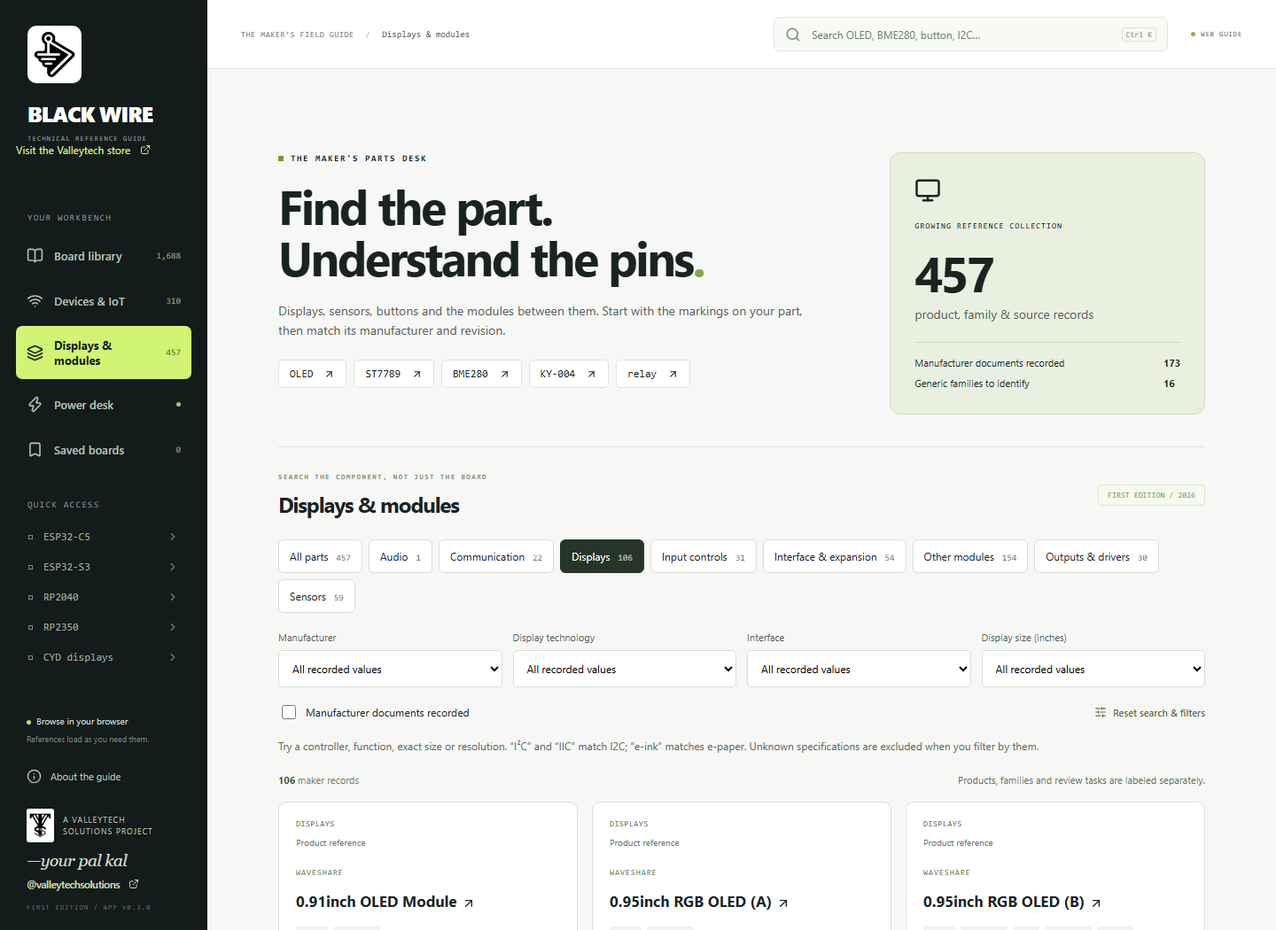
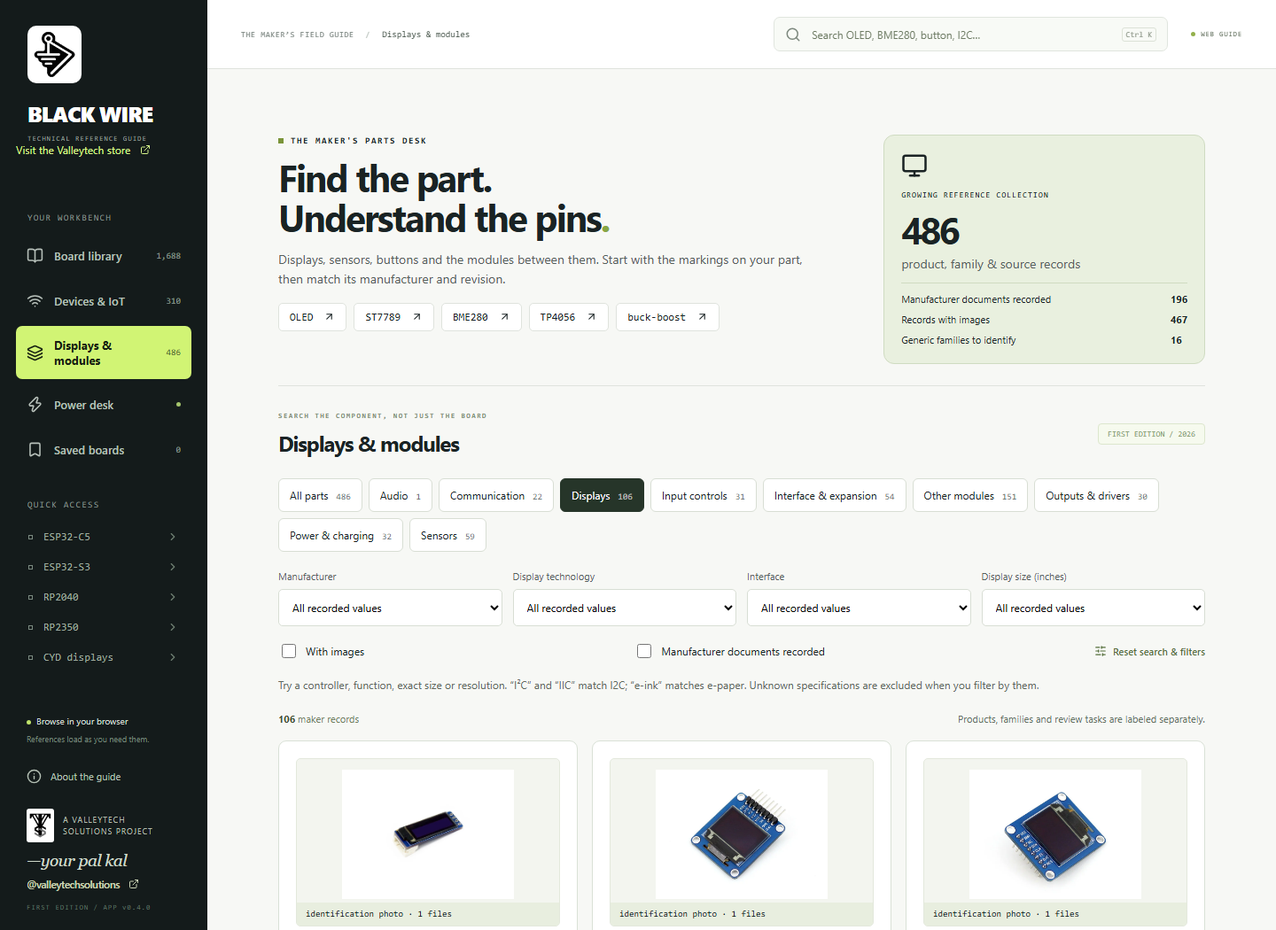
Show maker image galleries and add power module discovery

diff --git a/src/MakersView.jsx b/src/MakersView.jsx
@@ -1,7 +1,9 @@
 import React,{useEffect,useMemo,useRef,useState} from 'react';
 import {Monitor,Search,ArrowUpRight,X,SlidersHorizontal,ExternalLink,BookOpen,Layers} from 'lucide-react';
 import {searchMakerParts,makerSuggestions} from './maker-search.mjs';
-import {webEdition} from './runtime.mjs';
+import {webEdition,libraryURL} from './runtime.mjs';
+import {makerAssets,hasVisual} from './maker-assets.mjs';
+import MakerGallery from './MakerGallery.jsx';
 
 const kinds={'product-reference':'Product reference','manufacturer-family':'Manufacturer guide / family','collection-reference':'Existing collection reference','generic-family':'Generic family / identify first'};
 const unique=(parts,key)=>[...new Set(parts.flatMap(p=>Array.isArray(p[key])?p[key]:[p[key]]).filter(v=>v!==undefined&&v!==null&&v!==''))].sort((a,b)=>typeof a==='number'?a-b:String(a).localeCompare(String(b)));
@@ -9,6 +11,7 @@ function facts(p){return [p.technology,...p.controllers,...p.interfaces,p.diagon
 
 export default function MakersView({catalog,query,setQuery,openBoard,SourceLink}){
  const parts=catalog.makerParts||[];
+ const visuals=useMemo(()=>new Map(parts.map(p=>[p.id,makerAssets(p,catalog)])),[parts,catalog]);
  const [filters,setFilters]=useState({}),[limit,setLimit]=useState(30);
  const [selected,setSelected]=useState(()=>parts.find(p=>p.id===new URLSearchParams(location.search).get('part'))||null);
  const matches=useMemo(()=>searchMakerParts(parts,{...filters,query}),[parts,filters,query]);
@@ -18,14 +21,14 @@ export default function MakersView({catalog,query,setQuery,openBoard,SourceLink}
  const set=(key,value)=>setFilters(s=>({...s,[key]:value}));
  const controls=[['Manufacturer','brand',unique(parts,'brand')],['Display technology','technology',unique(parts,'technology')],['Interface','interface',unique(parts,'interfaces')],['Display size (inches)','size',unique(parts,'diagonalInches')]];
  return <div className="makers-page">
-  <section className="makers-hero"><div><div className="eyebrow"><span className="status-square"/>THE MAKER'S PARTS DESK</div><h1>Find the part.<br/>Understand the pins<span className="lime-period">.</span></h1><p>Displays, sensors, buttons and the modules between them. Start with the markings on your part, then match its manufacturer and revision.</p><div className="maker-examples">{['OLED','ST7789','BME280','KY-004','relay'].map(q=><button key={q} onClick={()=>{setFilters({});setQuery(q);}}>{q}<ArrowUpRight size={13}/></button>)}</div></div><div className="maker-coverage"><Monitor size={30}/><span>GROWING REFERENCE COLLECTION</span><strong>{parts.length.toLocaleString()}</strong><p>product, family & source records</p><dl><dt>Manufacturer documents recorded</dt><dd>{catalog.stats.makerDocumented}</dd><dt>Generic families to identify</dt><dd>{catalog.stats.makerGenericFamilies}</dd></dl></div></section>
+  <section className="makers-hero"><div><div className="eyebrow"><span className="status-square"/>THE MAKER'S PARTS DESK</div><h1>Find the part.<br/>Understand the pins<span className="lime-period">.</span></h1><p>Displays, sensors, buttons and the modules between them. Start with the markings on your part, then match its manufacturer and revision.</p><div className="maker-examples">{['OLED','ST7789','BME280','TP4056','buck-boost'].map(q=><button key={q} onClick={()=>{setFilters({});setQuery(q);}}>{q}<ArrowUpRight size={13}/></button>)}</div></div><div className="maker-coverage"><Monitor size={30}/><span>GROWING REFERENCE COLLECTION</span><strong>{parts.length.toLocaleString()}</strong><p>product, family & source records</p><dl><dt>Manufacturer documents recorded</dt><dd>{catalog.stats.makerDocumented}</dd><dt>Records with images</dt><dd>{catalog.stats.makerWithImages}</dd><dt>Generic families to identify</dt><dd>{catalog.stats.makerGenericFamilies}</dd></dl></div></section>
   <section className="maker-library"><div className="section-heading"><div><div className="eyebrow">SEARCH THE COMPONENT, NOT JUST THE BOARD</div><h2>Displays & modules</h2></div><span className="tag-outline">FIRST EDITION / 2026</span></div>
    <div className="maker-categories" aria-label="Maker categories">{['',...unique(parts,'category')].map(cat=><button key={cat} aria-pressed={(filters.category||'')===cat} onClick={()=>set('category',cat)}>{cat||'All parts'}<span>{parts.filter(p=>!cat||p.category===cat).length}</span></button>)}</div>
    <div className="maker-filter-grid">{controls.map(([label,key,options])=><label key={key}><span>{label}</span><select aria-label={'Maker '+label.toLowerCase()} value={filters[key]||''} onChange={e=>set(key,e.target.value)}><option value="">All recorded values</option>{options.map(o=><option key={o} value={o}>{o}</option>)}</select></label>)}</div>
-   <div className="maker-options"><label><input type="checkbox" checked={!!filters.documentedOnly} onChange={e=>set('documentedOnly',e.target.checked)}/>Manufacturer documents recorded</label><button className="text-link" onClick={()=>{setFilters({});setQuery('');}}><SlidersHorizontal size={14}/>Reset search & filters</button></div>
+   <div className="maker-options"><label><input type="checkbox" checked={!!filters.imagesOnly} onChange={e=>set('imagesOnly',e.target.checked)}/>With images</label><label><input type="checkbox" checked={!!filters.documentedOnly} onChange={e=>set('documentedOnly',e.target.checked)}/>Manufacturer documents recorded</label><button className="text-link" onClick={()=>{setFilters({});setQuery('');}}><SlidersHorizontal size={14}/>Reset search & filters</button></div>
    <p className="search-hint">Try a controller, function, exact size or resolution. “I²C” and “IIC” match I2C; “e-ink” matches e-paper. Unknown specifications are excluded when you filter by them.</p>
    <div className="result-toolbar"><span role="status"><b>{matches.length.toLocaleString()}</b> maker records{query&&<> matching <strong>“{query}”</strong></>}</span><span>Products, families and review tasks are labeled separately.</span></div>
-   {matches.length?<div className="maker-grid">{matches.slice(0,limit).map(p=><article key={p.id} className="maker-card"><div className="maker-card-top"><span>{p.category}</span><span className={'maker-record-kind '+(p.identityKind==='generic-family'?'needs-id':'')}>{kinds[p.identityKind]}</span></div><div className="card-brand">{p.brand}</div><h3><button onClick={()=>pick(p)}>{p.name}<ArrowUpRight size={16}/></button></h3><div className="maker-facts">{facts(p).map((fact,i)=><span key={i}>{fact}</span>)}</div><div className="maker-card-bottom"><span>{p.documentationStatus}</span><button onClick={()=>pick(p)} aria-label={'Open maker record '+p.name}>Details & sources<ArrowUpRight size={14}/></button></div></article>)}</div>:<div className="empty-state"><Search size={30}/><h3>No matching maker records yet.</h3><p>Try fewer terms or clear a filter. This collection is growing; a missing result does not establish that a part does not exist.</p>{suggestions.length>0&&<div className="maker-examples"><span>Similar recorded codes:</span>{suggestions.map(s=><button key={s} onClick={()=>setQuery(s)}>{s}</button>)}</div>}</div>}
+   {matches.length?<div className="maker-grid">{matches.slice(0,limit).map(p=><article key={p.id} className="maker-card"><button className="maker-preview" onClick={()=>pick(p)} aria-label={'View images for '+p.name}>{visuals.get(p.id).find(hasVisual)?<><img loading="lazy" src={libraryURL((visuals.get(p.id).find(hasVisual).thumb||visuals.get(p.id).find(hasVisual).file))} alt={p.name+' reference preview'}/><span>{visuals.get(p.id).find(hasVisual).type} · {visuals.get(p.id).length} files</span></>:<span className="maker-image-gap"><Monitor size={28}/>Image needed · source review pending</span>}</button><div className="maker-card-top"><span>{p.category}</span><span className={'maker-record-kind '+(p.identityKind==='generic-family'?'needs-id':'')}>{kinds[p.identityKind]}</span></div><div className="card-brand">{p.brand}</div><h3><button onClick={()=>pick(p)}>{p.name}<ArrowUpRight size={16}/></button></h3><div className="maker-facts">{facts(p).map((fact,i)=><span key={i}>{fact}</span>)}</div><div className="maker-card-bottom"><span>{p.documentationStatus}</span><button onClick={()=>pick(p)} aria-label={'Open maker record '+p.name}>Images, details & sources<ArrowUpRight size={14}/></button></div></article>)}</div>:<div className="empty-state"><Search size={30}/><h3>No matching maker records yet.</h3><p>Try fewer terms or clear a filter. This collection is growing; a missing result does not establish that a part does not exist.</p>{suggestions.length>0&&<div className="maker-examples"><span>Similar recorded codes:</span>{suggestions.map(s=><button key={s} onClick={()=>setQuery(s)}>{s}</button>)}</div>}</div>}
    {matches.length>limit&&<div className="load-more"><button className="secondary-button" onClick={()=>setLimit(n=>n+30)}>Show 30 more</button><span>Showing {limit} of {matches.length}</span></div>}
   </section>
   <aside className="maker-method"><Layers size={22}/><div><h3>A useful reference starts with the exact hardware.</h3><p>Records connect to their original sources. Generic names may cover different pin orders and voltage circuits. A document or pin-label list is not a verified physical pinout; missing facts stay visible while each variant is reviewed.</p><SourceLink url="https://github.com/valleytechsolutions/black-wire-pinouts/blob/main/docs/MAKER_ROADMAP.md">Coverage roadmap & contribution process</SourceLink></div></aside>
@@ -37,8 +40,9 @@ function MakerDialog({part:p,catalog,close,openBoard,SourceLink}){
  const ref=useRef(null);
  useEffect(()=>{const dialog=ref.current;dialog.showModal();return()=>dialog.close();},[]);
  const linked=catalog.boards.filter(b=>p.boardIds.includes(b.id)&&b.assets.length);
+ const assets=makerAssets(p,catalog);
  const url=new URL(location.href);url.search='';url.searchParams.set('tab','makers');url.searchParams.set('part',p.id);
- return <dialog className="maker-dialog" ref={ref} aria-labelledby="maker-detail-title" onCancel={e=>{e.preventDefault();close();}} onClick={e=>{if(e.target===ref.current)close();}}><div className="maker-dialog-inner"><header><span className="eyebrow">{p.category} / {kinds[p.identityKind]}</span><button className="icon-button" aria-label="Close maker record" onClick={close}><X size={20}/></button></header><div className="card-brand">{p.brand}</div><h2 id="maker-detail-title">{p.name}</h2><div className="maker-facts">{facts(p).map((f,i)=><span key={i}>{f}</span>)}</div><dl className="maker-detail-facts"><dt>Documentation</dt><dd>{p.documentationStatus}</dd><dt>Exact PCB revision</dt><dd>{p.revision}</dd><dt>Interface</dt><dd>{p.interfaces.join(' / ')||'Not recorded'}</dd><dt>Controller</dt><dd>{p.controllers.join(' / ')||'Not recorded'}</dd><dt>Physical pinout</dt><dd>No complete pinout approved in this intake</dd></dl>
+ return <dialog className="maker-dialog" ref={ref} aria-labelledby="maker-detail-title" onCancel={e=>{e.preventDefault();close();}} onClick={e=>{if(e.target===ref.current)close();}}><div className="maker-dialog-inner"><header><span className="eyebrow">{p.category} / {kinds[p.identityKind]}</span><button className="icon-button" aria-label="Close maker record" onClick={close}><X size={20}/></button></header><div className="card-brand">{p.brand}</div><h2 id="maker-detail-title">{p.name}</h2><div className="maker-facts">{facts(p).map((f,i)=><span key={i}>{f}</span>)}</div><MakerGallery part={p} assets={assets} SourceLink={SourceLink}/><dl className="maker-detail-facts"><dt>Documentation</dt><dd>{p.documentationStatus}</dd><dt>Exact PCB revision</dt><dd>{p.revision}</dd><dt>Interface</dt><dd>{p.interfaces.join(' / ')||'Not recorded'}</dd><dt>Controller</dt><dd>{p.controllers.join(' / ')||'Not recorded'}</dd><dt>Physical pinout</dt><dd>{assets.filter(a=>a.type==='pinout image').length?'Physical pinout references available; check partial-map and revision labels':'Supporting images only; complete physical pinout still needed'}</dd></dl>
   {p.pinLabels.length>0&&<section><h3>Documented pin labels</h3><p>Labels only; this is not the physical order or a wiring diagram.</p><div className="maker-pin-labels">{p.pinLabels.map(label=><code key={label}>{label}</code>)}</div></section>}
   <section><h3>Before connecting</h3>{p.notes.map((note,i)=><p key={i}>{note}</p>)}<p>Power input, GPIO logic voltage and current limits need separate confirmation. Sharing a controller name does not establish board compatibility.</p></section>
   {linked.length>0&&<section><h3>Existing reference files</h3>{linked.map(b=><button key={b.id} className="secondary-button" onClick={()=>openBoard(b)}><BookOpen size={16}/>{b.name} · {b.assets.length} files</button>)}</section>}

diff --git a/src/makers.css b/src/makers.css
@@ -1,2 +1,6 @@
 .makers-page{padding:38px 40px 28px;max-width:1580px;margin:auto}.makers-hero{display:grid;grid-template-columns:minmax(0,1.8fr) minmax(220px,1fr);gap:50px;padding:20px 0 36px}.makers-hero h1{font-size:clamp(34px,3.8vw,54px);line-height:1.07;margin:18px 0 20px}.makers-hero p{max-width:610px;color:#55605b;font-size:14px}.maker-examples{display:flex;gap:8px;flex-wrap:wrap;align-items:center;margin-top:22px}.maker-examples button{display:flex;gap:12px;align-items:center;padding:8px 12px;background:#fff;border:1px solid var(--line);border-radius:5px;font:12px var(--mono)}.maker-coverage{background:#e9f0df;border:1px solid #cfdbc1;border-radius:12px;padding:27px;align-self:center}.maker-coverage>span{display:block;font:9px var(--mono);letter-spacing:1px;margin-top:16px}.maker-coverage strong{display:block;font-size:56px;letter-spacing:-3px;margin-top:10px}.maker-coverage dl{border-top:1px solid #cfdbc1;margin:20px 0 0;padding-top:15px;display:grid;grid-template-columns:1fr auto;font-size:11px;gap:8px}.maker-coverage dd{margin:0;font-weight:700}.maker-library{border-top:1px solid var(--line);padding-top:28px}.maker-categories{display:flex;flex-wrap:wrap;gap:7px;margin:24px 0 20px}.maker-categories button{border:1px solid #d8ded4;border-radius:6px;padding:10px 12px;font-size:12px;background:white}.maker-categories button[aria-pressed=true]{background:#263529;border-color:#263529;color:white}.maker-categories span{margin-left:9px;opacity:.65;font:10px var(--mono)}.maker-filter-grid{display:grid;grid-template-columns:repeat(4,minmax(0,1fr));gap:12px}.maker-filter-grid label>span{display:block;font-size:11px;color:#55605b;margin-bottom:7px}.maker-filter-grid select{width:100%;min-width:0;background:white;border:1px solid #d8ded4;border-radius:5px;padding:11px;font-size:12px}.maker-options{display:flex;justify-content:space-between;gap:16px;align-items:center;margin:16px 0;font-size:12px}.maker-options label{display:flex;align-items:center;gap:8px}.makers-page .result-toolbar{gap:14px;flex-wrap:wrap}.makers-page .result-toolbar>span:last-child{font-size:11px;color:#63705f}.maker-grid{display:grid;grid-template-columns:repeat(3,minmax(0,1fr));gap:16px}.maker-card{border:1px solid #d9e1d6;border-radius:9px;background:white;display:flex;flex-direction:column;overflow:hidden;padding:19px;min-width:0}.maker-card-top{display:flex;flex-direction:column;gap:9px;margin-bottom:22px;font:9px var(--mono);color:#61735d;text-transform:uppercase;letter-spacing:.5px}.maker-record-kind{color:#6b7371;font:10px Inter,"Segoe UI",sans-serif;letter-spacing:0;text-transform:none}.maker-record-kind.needs-id{color:#926520}.maker-card h3{margin:8px 0 17px;letter-spacing:-.3px;font-size:17px;line-height:1.35}.maker-card h3 button{padding:0;text-align:left;font:inherit;line-height:inherit;width:100%}.maker-card h3 svg{display:inline;vertical-align:middle;margin-left:5px}.maker-card h3 button:hover{text-decoration:underline}.maker-facts{display:flex;flex-wrap:wrap;gap:6px;margin-bottom:18px}.maker-facts span{padding:5px 7px;background:#f0f4eb;font:10px var(--mono);border-radius:3px;overflow-wrap:anywhere}.maker-card-bottom{border-top:1px solid #edf0e9;padding-top:13px;margin-top:auto;display:flex;flex-direction:column;gap:13px}.maker-card-bottom>span{font-size:10px;color:#5d6958}.maker-card-bottom button{font-size:12px;display:flex;align-items:center;gap:6px;align-self:flex-start;padding:0;font-weight:600}.maker-method{display:flex;gap:17px;background:#edf1e6;padding:24px;margin-top:32px;border-radius:8px}.maker-method h3{font-size:18px}.maker-method p{font-size:13px;color:#57634f;margin:12px 0}.maker-method a{font-size:12px}.maker-dialog{padding:0;border:1px solid #c6d2bd;border-radius:12px;max-width:820px;width:calc(100vw - 36px);max-height:90vh;color:var(--ink);background:#fcfdf9}.maker-dialog::backdrop{background:#0b171bbc;backdrop-filter:blur(3px)}.maker-dialog-inner{padding:30px}.maker-dialog header{display:flex;align-items:center;justify-content:space-between;gap:14px;margin-bottom:25px}.maker-dialog h2{font-size:29px;line-height:1.2;margin:10px 0 20px;overflow-wrap:anywhere}.maker-dialog h3{font-size:18px;margin-bottom:12px}.maker-detail-facts{display:grid;grid-template-columns:145px 1fr;gap:12px;font-size:13px;border-top:1px solid var(--line);padding-top:20px}.maker-detail-facts dt{color:#687561}.maker-detail-facts dd{margin:0;overflow-wrap:anywhere}.maker-dialog section{border-top:1px solid var(--line);padding-top:21px;margin-top:24px}.maker-dialog section p{font-size:13px;color:#586352;margin-bottom:12px}.maker-pin-labels{display:flex;flex-wrap:wrap;gap:10px}.maker-pin-labels code{background:#eaf1df;padding:8px 11px;border:1px solid #cbd9bb;font-size:13px;border-radius:4px}.maker-source{margin:18px 0;font-size:13px;overflow-wrap:anywhere}.maker-source>span{display:block;font-size:11px;color:#697361;margin-top:7px;line-height:1.6}.maker-source details{font-size:11px;margin-top:9px}.maker-source code{display:block;overflow-wrap:anywhere;margin-top:8px}.maker-dialog .text-link{margin-top:22px}.maker-search-crosslink{display:flex;justify-content:space-between;align-items:center;gap:16px;background:#e9f2dd;border:1px solid #ccdcb9;padding:15px 18px;border-radius:7px;margin:18px 0;font-size:13px}.maker-search-crosslink button{font-weight:600;display:flex;gap:8px;align-items:center}.sidebar{overflow-y:auto}
 @media(min-width:1600px){.maker-grid{grid-template-columns:repeat(4,minmax(0,1fr))}}@media(max-width:1200px){.maker-grid{grid-template-columns:repeat(2,minmax(0,1fr))}.maker-filter-grid{grid-template-columns:repeat(2,minmax(0,1fr))}.makers-hero{gap:25px}.makers-page{padding:25px}}@media(max-width:700px){.makers-page{padding:22px 16px}.makers-hero{grid-template-columns:1fr;padding:5px 0 25px}.maker-coverage{display:none}.maker-grid{grid-template-columns:1fr}.maker-options{align-items:flex-start;flex-direction:column}.maker-method{padding:17px}.maker-dialog-inner{padding:20px}.maker-detail-facts{grid-template-columns:110px 1fr}.maker-search-crosslink{align-items:flex-start;flex-direction:column}.makers-page .section-heading{gap:10px;flex-wrap:wrap}.maker-dialog h2{font-size:24px}.maker-categories button{padding:8px;font-size:11px}}
+
+.maker-preview{position:relative;height:190px;display:flex;align-items:center;justify-content:center;background:#f3f5ef;border:1px solid #e3e8dc;border-radius:5px;margin-bottom:18px;width:100%;padding:12px 12px 30px;overflow:hidden}.maker-preview img{width:100%;height:100%;object-fit:contain}.maker-preview>span:not(.maker-image-gap){position:absolute;bottom:0;left:0;right:0;text-align:left;padding:7px 10px;background:#e8eedf;font:10px var(--mono)}.maker-image-gap{display:flex;flex-direction:column;gap:12px;align-items:center;font-size:12px;color:#66735e}.maker-gallery-heading{display:flex;gap:10px;justify-content:space-between;flex-wrap:wrap}.maker-gallery-heading>span{font:11px var(--mono);color:#586b50}.maker-gallery-heading h3 span{font:12px var(--mono)}.maker-image-tools{display:flex;align-items:center;gap:8px;background:#eaf0e1;padding:8px;border-radius:6px 6px 0 0}.maker-image-tools>span{font:11px var(--mono)}.maker-image-tools>.secondary-button{margin-left:auto;font-size:12px;padding:9px}.maker-image-stage{background:white;overflow:auto;max-height:580px;min-height:200px;border:1px solid #d9e1cf;overscroll-behavior:contain}.maker-image-stage>img{display:block;max-width:none;height:auto;min-height:120px;object-fit:contain}.maker-image-caption{padding:16px 0;font-size:12px;overflow-wrap:anywhere}.maker-image-caption>b,.maker-image-caption>span{display:block;margin-bottom:8px}.maker-image-caption>span{font-size:11px;color:#617058}.maker-image-caption details a{display:inline-block;margin:8px 14px 8px 0}.maker-image-caption code{display:block;font-size:10px;overflow-wrap:anywhere}.maker-image-strip{display:flex;gap:10px;overflow-x:auto;padding:3px 1px 12px}.maker-image-strip button{flex:0 0 140px;border:1px solid #d4dfca;padding:8px;border-radius:5px;text-align:left;background:white}.maker-image-strip button[aria-pressed=true]{outline:2px solid #426d2d}.maker-image-strip img{display:block;width:120px;height:80px;object-fit:contain;margin:auto auto 8px}.maker-image-strip span,.maker-image-strip small{display:block;font-size:10px;line-height:1.4;overflow-wrap:anywhere}.maker-image-strip small{color:#637959;margin-top:5px}.maker-options{flex-wrap:wrap}.maker-image-tools button:disabled{opacity:.35}.maker-missing{color:#657359}.maker-dialog{max-width:1000px}
+
+.makers-hero{padding:0 0 24px;gap:30px}.makers-hero h1{font-size:clamp(30px,3vw,42px);margin:12px 0 14px}.maker-coverage{padding:19px}.maker-coverage strong{font-size:42px;margin-top:6px}.maker-coverage dl{margin-top:10px;padding-top:10px}.maker-coverage>span{margin-top:9px}.maker-examples{margin-top:15px}.maker-dialog .maker-gallery{margin-top:15px}

diff --git a/src/main.jsx b/src/main.jsx
@@ -60,7 +60,7 @@ function App(){
    </nav>
    <div className="sidebar-section-label browse-label">QUICK ACCESS</div>
    <nav className="quick-nav" aria-label="Quick processor filters">{['ESP32-C5','ESP32-S3','RP2040','RP2350','CYD'].map(p=><button key={p} className={processor===p||family===p?'filter-active':''} onClick={()=>{quickFilter(p);setSidebarOpen(false);}}><span className="tiny-square"/>{p==='CYD'?'CYD displays':p}<ChevronRight size={14}/></button>)}</nav>
-   <div className="sidebar-bottom"><div className="offline-status"><span/>{webEdition?'Browse in your browser':'All references stay offline'}<p>{webEdition?'References load as you need them.':'No account. Just your workbench.'}</p></div><button className={'about-nav '+(tab==='about'?'active':'')} onClick={()=>navigate('about')}><Info size={17}/>About the guide</button><div className="sidebar-valleytech"><img src={appAsset('brand/valleytech.png')} alt="Valleytech Solutions logo"/><span>A VALLEYTECH<br/>SOLUTIONS PROJECT</span></div><CreatorCredit className="signature"/><div className="version">FIRST EDITION / APP v0.3.0</div></div>
+   <div className="sidebar-bottom"><div className="offline-status"><span/>{webEdition?'Browse in your browser':'All references stay offline'}<p>{webEdition?'References load as you need them.':'No account. Just your workbench.'}</p></div><button className={'about-nav '+(tab==='about'?'active':'')} onClick={()=>navigate('about')}><Info size={17}/>About the guide</button><div className="sidebar-valleytech"><img src={appAsset('brand/valleytech.png')} alt="Valleytech Solutions logo"/><span>A VALLEYTECH<br/>SOLUTIONS PROJECT</span></div><CreatorCredit className="signature"/><div className="version">FIRST EDITION / APP v0.4.0</div></div>
   </aside>
   {sidebarOpen&&<button className="sidebar-scrim" aria-label="Close navigation" onClick={()=>setSidebarOpen(false)}/>}
   <div className="main-shell">
@@ -162,7 +162,7 @@ function About({catalog,workbench,setWorkbench,notify}){
  const input=useRef(null);
  async function exportData(){const data={format:'black-wire-backup',version:1,exportedAt:new Date().toISOString(),...workbench};try{if(window.blackwire)await window.blackwire.exportBackup(JSON.stringify(data,null,2));else downloadJSON(data,'Black-Wire-workbench.json');}catch(e){notify(e.message);}}
  async function importData(e){try{const file=e.target.files[0];if(!file)return;if(file.size>5000000)throw new Error('Backup is larger than 5 MB.');const data=validateBackup(JSON.parse(await file.text()),new Set(catalog.boards.map(b=>b.id)));setWorkbench(s=>({...s,favorites:[...new Set([...s.favorites,...data.favorites])],measurements:[...new Map([...s.measurements,...data.measurements].map(m=>[m.id,m])).values()]}));notify('Backup merged with your existing workbench.');}catch(e){notify(e.message);}finally{e.target.value='';}}
- return <div className="about-page"><div className="about-brand"><img src={appAsset('brand/black-wire.png')} alt="Black Wire official logo"/><span className="eyebrow">A REFERENCE THAT BELONGS ON YOUR BENCH</span><h1>Black Wire<br/>Technical Reference Guide<span className="lime-period">.</span></h1><p>Built to make the next connection a little easier. Find your board, see its pins, and get back to making.</p><CreatorCredit className="about-signature"/></div><div className="about-cards"><section><BookOpen size={24}/><h2>{webEdition?"Your reference library, online.":"Your library, offline."}</h2><p>{number(catalog.stats.referenceEntries)} searchable reference entries, including {number(catalog.stats.physicalPinouts)} reviewed physical pinout images. Original manufacturer/source files are included with clear review labels.</p><p>Board revisions, source credits and partial diagrams stay attached to their images. This collection is growing; it does not claim every board ever made.</p><span className="tag-outline">{catalog.edition}</span></section><section><Download size={24}/><h2>Keep your workbench.</h2><p>{webEdition?'Bookmarks and measurements stay in this browser. Export a backup to keep a copy or move your records to the desktop app. Clearing browser storage can erase local records.':'Bookmarks and your measurements are stored on this device. Export a backup to move them between Windows, Linux and macOS.'}</p><div className="backup-actions"><button className="primary-button" onClick={exportData}><Download size={16}/>Export backup</button><button className="secondary-button" onClick={()=>input.current.click()}><Upload size={16}/>Import backup</button><input ref={input} type="file" accept="application/json,.json" hidden onChange={importData}/></div><p className="muted">Import merges records. {webEdition?'An internet connection is required to load references; your backup contains personal records, not the image library.':'The image library is shipped separately from your personal backup.'}</p></section></div><section className="about-valleytech"><img src={appAsset('brand/valleytech.png')} alt="Valleytech official logo"/><div><span className="eyebrow">ROOTED IN VALLEYTECH</span><h2>Collected with care. Built by Kal.</h2><p>The Valleytech Technical Reference Guide collection is the foundation of Black Wire. Board diagrams retain their original creators’ credit and source records. The app does not claim ownership of manufacturer artwork.</p><p className="muted">First Edition / 2026 · App v0.2.0 · No accounts, analytics or cloud sync.</p></div></section><LicenseNotices/></div>;
+ return <div className="about-page"><div className="about-brand"><img src={appAsset('brand/black-wire.png')} alt="Black Wire official logo"/><span className="eyebrow">A REFERENCE THAT BELONGS ON YOUR BENCH</span><h1>Black Wire<br/>Technical Reference Guide<span className="lime-period">.</span></h1><p>Built to make the next connection a little easier. Find your board, see its pins, and get back to making.</p><CreatorCredit className="about-signature"/></div><div className="about-cards"><section><BookOpen size={24}/><h2>{webEdition?"Your reference library, online.":"Your library, offline."}</h2><p>{number(catalog.stats.referenceEntries)} searchable reference entries, including {number(catalog.stats.physicalPinouts)} reviewed physical pinout images. Original manufacturer/source files are included with clear review labels.</p><p>Board revisions, source credits and partial diagrams stay attached to their images. This collection is growing; it does not claim every board ever made.</p><span className="tag-outline">{catalog.edition}</span></section><section><Download size={24}/><h2>Keep your workbench.</h2><p>{webEdition?'Bookmarks and measurements stay in this browser. Export a backup to keep a copy or move your records to the desktop app. Clearing browser storage can erase local records.':'Bookmarks and your measurements are stored on this device. Export a backup to move them between Windows, Linux and macOS.'}</p><div className="backup-actions"><button className="primary-button" onClick={exportData}><Download size={16}/>Export backup</button><button className="secondary-button" onClick={()=>input.current.click()}><Upload size={16}/>Import backup</button><input ref={input} type="file" accept="application/json,.json" hidden onChange={importData}/></div><p className="muted">Import merges records. {webEdition?'An internet connection is required to load references; your backup contains personal records, not the image library.':'The image library is shipped separately from your personal backup.'}</p></section></div><section className="about-valleytech"><img src={appAsset('brand/valleytech.png')} alt="Valleytech official logo"/><div><span className="eyebrow">ROOTED IN VALLEYTECH</span><h2>Collected with care. Built by Kal.</h2><p>The Valleytech Technical Reference Guide collection is the foundation of Black Wire. Board diagrams retain their original creators’ credit and source records. The app does not claim ownership of manufacturer artwork.</p><p className="muted">First Edition / 2026 · App v0.4.0 · No accounts, analytics or cloud sync.</p></div></section><LicenseNotices/></div>;
 }
 class ErrorBoundary extends React.Component{constructor(p){super(p);this.state={error:null};}static getDerivedStateFromError(error){return {error};}render(){return this.state.error?<div className="fatal"><h1>Something interrupted the workbench.</h1><p>Your original library files have not changed.</p><pre>{this.state.error.message}</pre><button onClick={()=>location.reload()}>Reopen Black Wire</button></div>:this.props.children;}}
 createRoot(document.getElementById('root')).render(<ErrorBoundary><App/></ErrorBoundary>);

diff --git a/src/MakerGallery.jsx b/src/MakerGallery.jsx
@@ -1,0 +1,18 @@
+import React,{useState} from 'react';
+import {Plus,Minus,Maximize2,Download,Image as ImageIcon} from 'lucide-react';
+import {libraryURL} from './runtime.mjs';
+const PdfViewer=React.lazy(()=>import('./PdfViewer.jsx'));
+
+export default function MakerGallery({part,assets,SourceLink}){
+ const [index,setIndex]=useState(0),[zoom,setZoom]=useState(1),[error,setError]=useState('');
+ const a=assets[index];
+ async function save(){try{if(window.blackwire)await window.blackwire.saveAsset(a.file,part.name+' - '+a.label);else{const link=document.createElement('a');link.href=libraryURL(a.file);link.download=part.name+' - '+a.label+'.'+a.extension;link.click();}}catch(e){setError(e.message);}}
+ if(!a)return <section className="maker-missing"><ImageIcon size={24}/><h3>Image still needed</h3><p>No matching physical reference image has been collected for this record. Its source and revision remain in the coverage queue.</p></section>;
+ const raster=['jpg','jpeg','png','webp','gif','svg'].includes(a.extension);
+ return <section className="maker-gallery" aria-label="Module reference images"><div className="maker-gallery-heading"><h3>Visual references <span>{assets.length}</span></h3><span>{a.type}{a.partial?' · partial':''}</span></div>
+  <div className="maker-image-tools"><button className="icon-button" aria-label="Zoom reference out" disabled={zoom<=1} onClick={()=>setZoom(v=>Math.max(1,v-.5))}><Minus size={18}/></button><span>{Math.round(zoom*100)}%</span><button className="icon-button" aria-label="Zoom reference in" disabled={zoom>=4} onClick={()=>setZoom(v=>Math.min(4,v+.5))}><Plus size={18}/></button><button className="icon-button" aria-label="Fit reference" onClick={()=>setZoom(1)}><Maximize2 size={18}/></button><button className="secondary-button" onClick={save}><Download size={16}/>Save original</button></div>
+  <div className="maker-image-stage" tabIndex={0} aria-label="Reference image; scroll to pan when zoomed">{raster&&!error?<img style={{width:`${zoom*100}%`}} src={libraryURL(a.display||a.file)} alt={part.name+' — '+a.label} onError={()=>setError('The image could not be decoded. Save the original or consult its source.')}/>:a.extension==='pdf'?<React.Suspense fallback={<p>Opening PDF…</p>}><PdfViewer url={libraryURL(a.file)} label={a.label} zoom={zoom} rotation={0}/></React.Suspense>:<p>{error||'Save this original to open it with a compatible viewer.'}</p>}</div>
+  <div className="maker-image-caption"><b>{a.label}</b><span>{a.review} · {a.width&&a.height?`${a.width} × ${a.height} · `:''}{a.extension.toUpperCase()}</span><p>{a.notes}</p><details><summary>Credit, source & rights</summary><p>{a.rights}</p>{[...new Set([...(a.sources||[]),a.url].filter(Boolean))].map((url,i)=><SourceLink key={url} url={url}>Source {i+1}</SourceLink>)}<code>SHA-256 {a.hash}</code></details></div>
+  {assets.length>1&&<div className="maker-image-strip" aria-label="Choose reference">{assets.map((asset,i)=><button key={asset.file} aria-pressed={index===i} aria-label={'Show reference '+(i+1)+': '+asset.label} onClick={()=>{setIndex(i);setZoom(1);setError('');}}>{asset.thumb?<img loading="lazy" src={libraryURL(asset.thumb)} alt=""/>:<ImageIcon size={24}/>}<span>{asset.label}</span><small>{asset.type}</small></button>)}</div>}
+ </section>;
+}

diff --git a/README.md b/README.md
@@ -11,6 +11,14 @@
 
 ![Black Wire board library, with manufacturer and microcontroller filters](docs/screenshots/library.png)
 
+## New in 0.4.0 / visual maker references
+
+Maker cards now show image previews. Open a record to browse its gallery, zoom, see credits and save original-resolution files. The image filter finds records with visual references. The catalog has 486 maker records, 467 with images, including 327 newly collected unique originals and 58 physical connector/pinout source images. Photos, schematics, partial maps and review limits are labeled separately.
+
+29 power records add buck, boost, buck-boost, TP4056/TP4057 charger variants, protection, solar, UPS and fuel-gauge coverage. Search recognizes step-up/step-down and spaced controller names. This is growing coverage, not a worldwide-completeness claim.
+
+![TP4056 module gallery with physical terminal labels](docs/screenshots/maker-gallery.png)
+
 ## New in 0.3.0 / maker parts desk
 
 Find displays, sensors, buttons and modules alongside the board library. The new intake contains 457 records, with 173 manufacturer documentation records, linked existing references and explicit generic identification tasks. Filter by function, interface, display technology, size or manufacturer; search controller codes and resolutions. Each record shows its evidence and missing review work. These records are not 457 complete pinout sheets.
